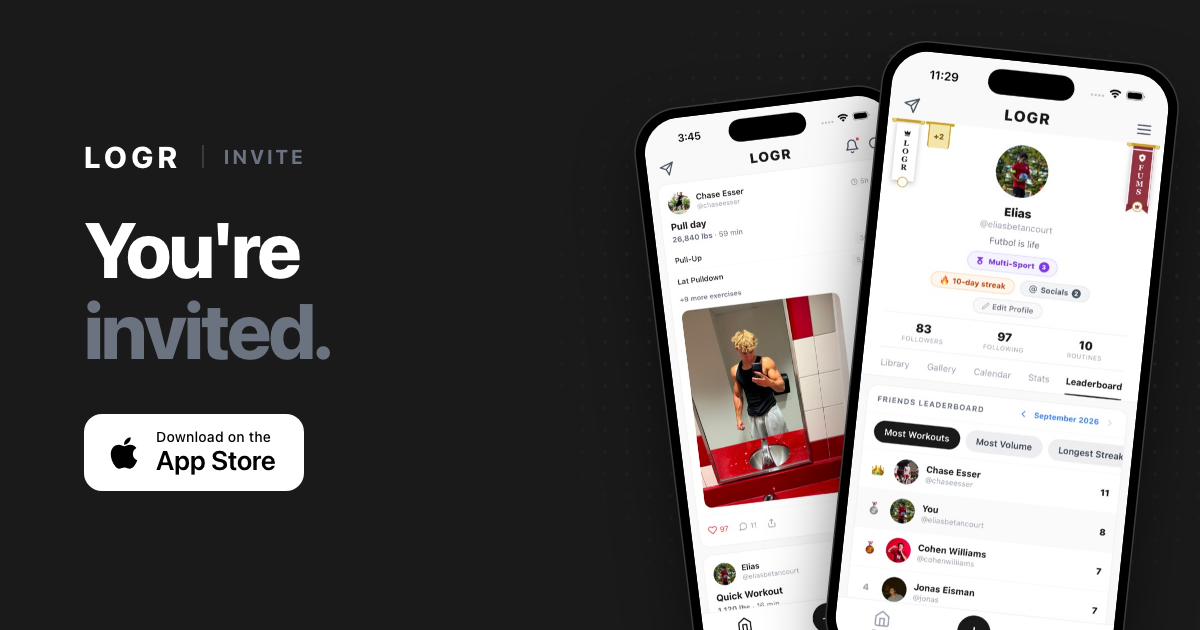
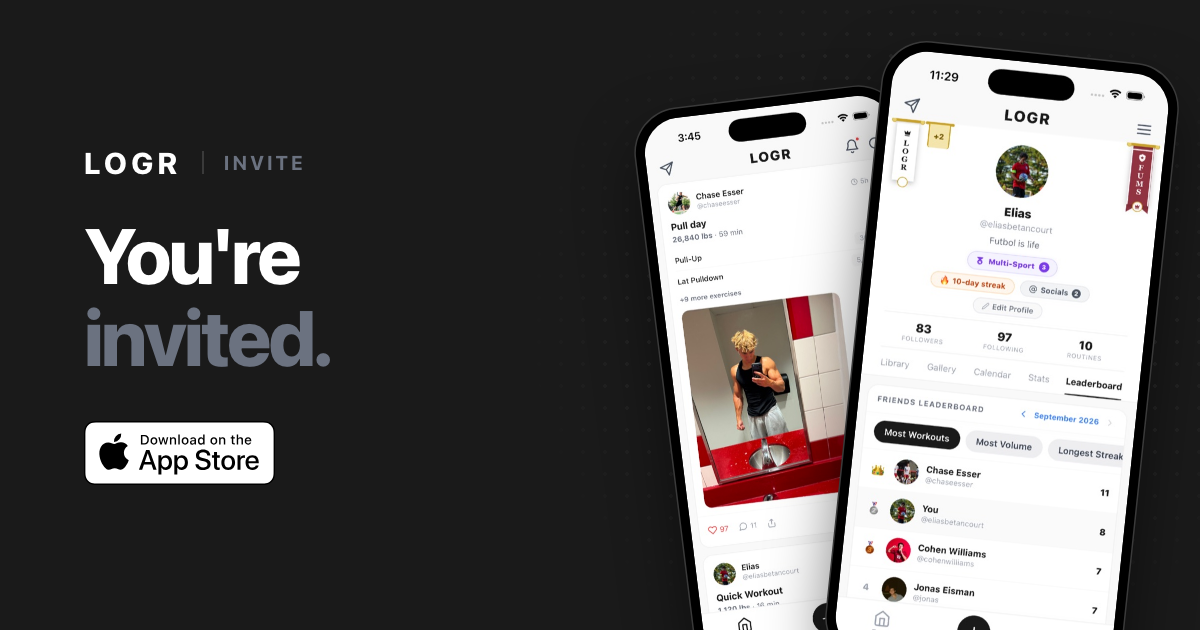
The App Store badge is Apple's own artwork
Every page, the pages behind a shared link and the link previews drew the
"Download on the App Store" badge in markup: a redrawn Apple logo and typed
words, with "Download on the" dropped from the phone header. Apple's badge
rules forbid recreating or altering it, so each now shows Apple's own SVG
from its marketing tools (app-store-badge.svg; the white one on the dark
preview cards), never below Apple's 40px minimum and with no hover or press
effect. The previews are re-rendered.

diff --git a/style.css b/style.css
@@ -173,44 +173,27 @@ img { max-width: 100%; display: block; }
 .button.small { padding: 11px 18px; font-size: 13px; }
 
 /* ── App Store badge ──────────────────────────────────────────────────────
-   The classic black "Download on the App Store" badge, built from real markup
-   instead of an image so it stays crisp and themeable without breaking the
-   no-JS, self-hosted CSP. Two sizes: default (hero) and .small (header). */
+   Apple's own "Download on the App Store" artwork (/app-store-badge.svg, from
+   Apple's marketing tools, tools.applemediaservices.com), never redrawn in
+   markup: Apple's badge rules forbid recreating, recoloring, cropping or
+   animating it, so the link around it has no hover or press effect, and no
+   size drops below Apple's 40px minimum. Clear space of a quarter of its
+   height comes from the layouts around it. Two sizes: default (hero) and
+   .small (header). */
 
 .app-badge {
-  display: inline-flex;
-  align-items: center;
-  gap: 10px;
-  padding: 11px 18px 11px 14px;
-  background: #000000;
-  border-radius: var(--radius-btn);
-  transition: transform 0.15s var(--ease), opacity 0.15s ease;
-}
-
-.app-badge:hover { opacity: 0.88; }
-.app-badge:active { transform: scale(0.97); }
-
-.app-badge-icon {
-  width: 26px;
-  height: 26px;
+  display: inline-block;
   flex-shrink: 0;
-  fill: #ffffff;
+  line-height: 0;
 }
 
-.app-badge-text {
-  display: flex;
-  flex-direction: column;
-  line-height: 1.15;
-  color: #ffffff;
+.app-badge-art {
+  display: block;
+  width: auto;
+  height: 54px;
 }
 
-.app-badge-eyebrow { font-size: 10px; font-weight: 500; letter-spacing: 0.02em; }
-.app-badge-store { margin-top: 1px; font-size: 19px; font-weight: 600; letter-spacing: -0.01em; }
-
-.app-badge.small { padding: 7px 14px 7px 10px; gap: 8px; border-radius: 10px; }
-.app-badge.small .app-badge-icon { width: 18px; height: 18px; }
-.app-badge.small .app-badge-eyebrow { font-size: 8px; }
-.app-badge.small .app-badge-store { font-size: 14px; }
+.app-badge.small .app-badge-art { height: 40px; }
 
 .text-link {
   font-size: 14px;
@@ -1179,16 +1162,12 @@ details[open] > summary .plus::before { transform: rotate(45deg); }
 
 /* The phone. */
 @media (max-width: 760px) {
-  /* One row: the logo and a compact App Store button. The section links are
+  /* One row: the logo and the App Store badge. The section links are
      in the footer, one scroll away, and a second row of grey links under the
      logo cost an eighth of the screen on every page. */
   .site-header { grid-template-columns: 1fr auto; }
   .site-nav { display: none; }
   .logo { font-size: 20px; }
-  .header-cta.app-badge { padding: 8px 13px 8px 11px; gap: 6px; border-radius: 11px; }
-  .header-cta .app-badge-eyebrow { display: none; }
-  .header-cta .app-badge-store { margin-top: 0; font-size: 14px; }
-  .header-cta .app-badge-icon { width: 15px; height: 15px; }
   .header-cta.button { padding: 10px 14px; font-size: 13px; }
 
   .hero { padding: 34px var(--gutter) 44px; }

diff --git a/index.html b/index.html
@@ -39,14 +39,7 @@
       <a href="/support">Support</a>
     </nav>
     <a class="app-badge small header-cta" href="https://apps.apple.com/app/id6795712216" aria-label="Download LOGR on the App Store">
-      <svg class="app-badge-icon" viewBox="0 0 384 512" aria-hidden="true" focusable="false">
-        <path
-          d="M318.7 268.7c-.2-36.7 16.4-64.4 50-84.8-18.8-26.9-47.2-41.7-84.7-44.6-35.5-2.8-74.3 20.7-88.5 20.7-15 0-49.4-19.7-76-19.7C63.3 141.2 4 184.8 4 273.5q0 39.3 14.4 81.2c12.8 36.7 59 126.7 107.2 125.2 25.2-.6 43-17.9 75.8-17.9 31.8 0 48.3 17.9 76.4 17.9 48.6-.7 90.4-82.5 102.6-119.3-65.2-30.7-61.7-90-61.7-91.9zm-56.6-164.2c27.3-32.4 24.8-61.9 24-72.5-24.1 1.4-52 16.4-67.9 34.9-17.5 19.8-27.8 44.3-25.6 71.9 26.1 2 49.9-11.4 69.5-34.3z" />
-      </svg>
-      <span class="app-badge-text">
-        <span class="app-badge-eyebrow">Download on the</span>
-        <span class="app-badge-store">App Store</span>
-      </span>
+      <img class="app-badge-art" src="/app-store-badge.svg" alt="" width="120" height="40">
     </a>
   </header>
 
@@ -62,14 +55,7 @@
           people you train with.</p>
         <div class="hero-actions">
           <a class="app-badge" href="https://apps.apple.com/app/id6795712216" aria-label="Download LOGR on the App Store">
-            <svg class="app-badge-icon" viewBox="0 0 384 512" aria-hidden="true" focusable="false">
-              <path
-                d="M318.7 268.7c-.2-36.7 16.4-64.4 50-84.8-18.8-26.9-47.2-41.7-84.7-44.6-35.5-2.8-74.3 20.7-88.5 20.7-15 0-49.4-19.7-76-19.7C63.3 141.2 4 184.8 4 273.5q0 39.3 14.4 81.2c12.8 36.7 59 126.7 107.2 125.2 25.2-.6 43-17.9 75.8-17.9 31.8 0 48.3 17.9 76.4 17.9 48.6-.7 90.4-82.5 102.6-119.3-65.2-30.7-61.7-90-61.7-91.9zm-56.6-164.2c27.3-32.4 24.8-61.9 24-72.5-24.1 1.4-52 16.4-67.9 34.9-17.5 19.8-27.8 44.3-25.6 71.9 26.1 2 49.9-11.4 69.5-34.3z" />
-            </svg>
-            <span class="app-badge-text">
-              <span class="app-badge-eyebrow">Download on the</span>
-              <span class="app-badge-store">App Store</span>
-            </span>
+            <img class="app-badge-art" src="/app-store-badge.svg" alt="" width="120" height="40">
           </a>
           <a class="text-link" href="#who">See who it's for &darr;</a>
         </div>

diff --git a/netlify/edge-functions/app-link.js b/netlify/edge-functions/app-link.js
@@ -220,9 +220,6 @@ function esc(value) {
     .replace(/'/g, '&#39;');
 }
 
-const APPLE_ICON =
-  'M318.7 268.7c-.2-36.7 16.4-64.4 50-84.8-18.8-26.9-47.2-41.7-84.7-44.6-35.5-2.8-74.3 20.7-88.5 20.7-15 0-49.4-19.7-76-19.7C63.3 141.2 4 184.8 4 273.5q0 39.3 14.4 81.2c12.8 36.7 59 126.7 107.2 125.2 25.2-.6 43-17.9 75.8-17.9 31.8 0 48.3 17.9 76.4 17.9 48.6-.7 90.4-82.5 102.6-119.3-65.2-30.7-61.7-90-61.7-91.9zm-56.6-164.2c27.3-32.4 24.8-61.9 24-72.5-24.1 1.4-52 16.4-67.9 34.9-17.5 19.8-27.8 44.3-25.6 71.9 26.1 2 49.9-11.4 69.5-34.3z';
-
 // Feather line icons, the set the app itself draws with. A link only tells us
 // what KIND of thing was shared, so when there is no name to make an initial
 // from, the mark says that much and no more.
@@ -255,15 +252,10 @@ function stats(tiles) {
     .join('')}</div>`;
 }
 
+// Apple's own badge artwork, never redrawn (style.css, "App Store badge").
 function badge(small) {
   return `<a class="app-badge${small ? ' small header-cta' : ''}" href="${APP_STORE}" aria-label="Download LOGR on the App Store">
-    <svg class="app-badge-icon" viewBox="0 0 384 512" aria-hidden="true" focusable="false">
-      <path d="${APPLE_ICON}" />
-    </svg>
-    <span class="app-badge-text">
-      <span class="app-badge-eyebrow">Download on the</span>
-      <span class="app-badge-store">App Store</span>
-    </span>
+    <img class="app-badge-art" src="/app-store-badge.svg" alt="" width="120" height="40">
   </a>`;
 }
 

diff --git a/og-source/card.css b/og-source/card.css
@@ -13,8 +13,6 @@
   --rule: #e5e7eb;
   --dots: rgba(26, 26, 26, 0.14);
   --frame: #1a1a1a;
-  --badge: #000000;
-  --badge-text: #ffffff;
 }
 body.dark {
   --bg: #1a1a1a;
@@ -23,8 +21,6 @@ body.dark {
   --rule: #3a3a3a;
   --dots: rgba(255, 255, 255, 0.10);
   --frame: #000000;
-  --badge: #ffffff;
-  --badge-text: #000000;
 }
 * { box-sizing: border-box; margin: 0; padding: 0; }
 html, body { width: 1200px; height: 630px; overflow: hidden; }
@@ -73,21 +69,14 @@ h1 {
 /* A two-line headline has the room to be bigger. */
 h1.short { font-size: 78px; }
 h1 em { font-style: normal; color: var(--muted); }
+/* Apple's own badge artwork, the white one on a dark card, never redrawn. */
 .badge {
   margin-top: 44px;
   align-self: flex-start;
-  display: inline-flex;
-  align-items: center;
-  gap: 14px;
-  padding: 15px 28px 15px 22px;
-  background: var(--badge);
-  border-radius: 18px;
-  color: var(--badge-text);
+  display: block;
+  height: 64px;
+  width: auto;
 }
-.badge svg { width: 36px; height: 36px; fill: currentColor; }
-.badge-text { display: flex; flex-direction: column; line-height: 1.1; }
-.badge-eyebrow { font-size: 14px; font-weight: 500; letter-spacing: 0.02em; }
-.badge-store { margin-top: 2px; font-size: 27px; font-weight: 600; letter-spacing: -0.01em; }
 
 /* The site hero's two phones and dot grid, running off the bottom edge. */
 .phones { position: absolute; left: 628px; top: 0; width: 560px; height: 630px; }

diff --git a/og-source/profile.html b/og-source/profile.html
@@ -9,13 +9,7 @@
   <div class="copy">
     <div class="wordmark">LOGR<span class="kind">PROFILE</span></div>
     <h1 class="short">Follow their<br><em>training.</em></h1>
-    <div class="badge">
-      <svg viewBox="0 0 384 512" aria-hidden="true"><path d="M318.7 268.7c-.2-36.7 16.4-64.4 50-84.8-18.8-26.9-47.2-41.7-84.7-44.6-35.5-2.8-74.3 20.7-88.5 20.7-15 0-49.4-19.7-76-19.7C63.3 141.2 4 184.8 4 273.5q0 39.3 14.4 81.2c12.8 36.7 59 126.7 107.2 125.2 25.2-.6 43-17.9 75.8-17.9 31.8 0 48.3 17.9 76.4 17.9 48.6-.7 90.4-82.5 102.6-119.3-65.2-30.7-61.7-90-61.7-91.9zm-56.6-164.2c27.3-32.4 24.8-61.9 24-72.5-24.1 1.4-52 16.4-67.9 34.9-17.5 19.8-27.8 44.3-25.6 71.9 26.1 2 49.9-11.4 69.5-34.3z"/></svg>
-      <span class="badge-text">
-        <span class="badge-eyebrow">Download on the</span>
-        <span class="badge-store">App Store</span>
-      </span>
-    </div>
+    <img class="badge" src="app-store-badge-white.svg" alt="">
   </div>
   <div class="phones">
     <div class="shot back"><img src="../screens/pair-1a-library.jpg" alt=""></div>

diff --git a/og-source/routine.html b/og-source/routine.html
@@ -9,13 +9,7 @@
   <div class="copy">
     <div class="wordmark">LOGR<span class="kind">ROUTINE</span></div>
     <h1>Save it.<br>Start it.<br><em>Log it.</em></h1>
-    <div class="badge">
-      <svg viewBox="0 0 384 512" aria-hidden="true"><path d="M318.7 268.7c-.2-36.7 16.4-64.4 50-84.8-18.8-26.9-47.2-41.7-84.7-44.6-35.5-2.8-74.3 20.7-88.5 20.7-15 0-49.4-19.7-76-19.7C63.3 141.2 4 184.8 4 273.5q0 39.3 14.4 81.2c12.8 36.7 59 126.7 107.2 125.2 25.2-.6 43-17.9 75.8-17.9 31.8 0 48.3 17.9 76.4 17.9 48.6-.7 90.4-82.5 102.6-119.3-65.2-30.7-61.7-90-61.7-91.9zm-56.6-164.2c27.3-32.4 24.8-61.9 24-72.5-24.1 1.4-52 16.4-67.9 34.9-17.5 19.8-27.8 44.3-25.6 71.9 26.1 2 49.9-11.4 69.5-34.3z"/></svg>
-      <span class="badge-text">
-        <span class="badge-eyebrow">Download on the</span>
-        <span class="badge-store">App Store</span>
-      </span>
-    </div>
+    <img class="badge" src="app-store-badge-white.svg" alt="">
   </div>
   <div class="phones">
     <div class="shot back"><img src="../screens/pair-2a-live-workout.jpg" alt=""></div>

diff --git a/og-source/post.html b/og-source/post.html
@@ -9,13 +9,7 @@
   <div class="copy">
     <div class="wordmark">LOGR<span class="kind">WORKOUT</span></div>
     <h1 class="short">See the whole<br><em>session.</em></h1>
-    <div class="badge">
-      <svg viewBox="0 0 384 512" aria-hidden="true"><path d="M318.7 268.7c-.2-36.7 16.4-64.4 50-84.8-18.8-26.9-47.2-41.7-84.7-44.6-35.5-2.8-74.3 20.7-88.5 20.7-15 0-49.4-19.7-76-19.7C63.3 141.2 4 184.8 4 273.5q0 39.3 14.4 81.2c12.8 36.7 59 126.7 107.2 125.2 25.2-.6 43-17.9 75.8-17.9 31.8 0 48.3 17.9 76.4 17.9 48.6-.7 90.4-82.5 102.6-119.3-65.2-30.7-61.7-90-61.7-91.9zm-56.6-164.2c27.3-32.4 24.8-61.9 24-72.5-24.1 1.4-52 16.4-67.9 34.9-17.5 19.8-27.8 44.3-25.6 71.9 26.1 2 49.9-11.4 69.5-34.3z"/></svg>
-      <span class="badge-text">
-        <span class="badge-eyebrow">Download on the</span>
-        <span class="badge-store">App Store</span>
-      </span>
-    </div>
+    <img class="badge" src="app-store-badge-white.svg" alt="">
   </div>
   <div class="phones">
     <div class="shot back"><img src="../screens/pair-3a-feed.jpg" alt=""></div>

diff --git a/support.html b/support.html
@@ -33,13 +33,7 @@
     <a href="/support" aria-current="page">Support</a>
   </nav>
   <a class="app-badge small header-cta" href="https://apps.apple.com/app/id6795712216" aria-label="Download LOGR on the App Store">
-    <svg class="app-badge-icon" viewBox="0 0 384 512" aria-hidden="true" focusable="false">
-      <path d="M318.7 268.7c-.2-36.7 16.4-64.4 50-84.8-18.8-26.9-47.2-41.7-84.7-44.6-35.5-2.8-74.3 20.7-88.5 20.7-15 0-49.4-19.7-76-19.7C63.3 141.2 4 184.8 4 273.5q0 39.3 14.4 81.2c12.8 36.7 59 126.7 107.2 125.2 25.2-.6 43-17.9 75.8-17.9 31.8 0 48.3 17.9 76.4 17.9 48.6-.7 90.4-82.5 102.6-119.3-65.2-30.7-61.7-90-61.7-91.9zm-56.6-164.2c27.3-32.4 24.8-61.9 24-72.5-24.1 1.4-52 16.4-67.9 34.9-17.5 19.8-27.8 44.3-25.6 71.9 26.1 2 49.9-11.4 69.5-34.3z" />
-    </svg>
-    <span class="app-badge-text">
-      <span class="app-badge-eyebrow">Download on the</span>
-      <span class="app-badge-store">App Store</span>
-    </span>
+    <img class="app-badge-art" src="/app-store-badge.svg" alt="" width="120" height="40">
   </a>
 </header>
 

diff --git a/og-source/join.html b/og-source/join.html
@@ -9,13 +9,7 @@
   <div class="copy">
     <div class="wordmark">LOGR<span class="kind">INVITE</span></div>
     <h1 class="short">You're<br><em>invited.</em></h1>
-    <div class="badge">
-      <svg viewBox="0 0 384 512" aria-hidden="true"><path d="M318.7 268.7c-.2-36.7 16.4-64.4 50-84.8-18.8-26.9-47.2-41.7-84.7-44.6-35.5-2.8-74.3 20.7-88.5 20.7-15 0-49.4-19.7-76-19.7C63.3 141.2 4 184.8 4 273.5q0 39.3 14.4 81.2c12.8 36.7 59 126.7 107.2 125.2 25.2-.6 43-17.9 75.8-17.9 31.8 0 48.3 17.9 76.4 17.9 48.6-.7 90.4-82.5 102.6-119.3-65.2-30.7-61.7-90-61.7-91.9zm-56.6-164.2c27.3-32.4 24.8-61.9 24-72.5-24.1 1.4-52 16.4-67.9 34.9-17.5 19.8-27.8 44.3-25.6 71.9 26.1 2 49.9-11.4 69.5-34.3z"/></svg>
-      <span class="badge-text">
-        <span class="badge-eyebrow">Download on the</span>
-        <span class="badge-store">App Store</span>
-      </span>
-    </div>
+    <img class="badge" src="app-store-badge-white.svg" alt="">
   </div>
   <div class="phones">
     <div class="shot back"><img src="../screens/pair-3a-feed.jpg" alt=""></div>

diff --git a/og-source/site.html b/og-source/site.html
@@ -9,13 +9,7 @@
   <div class="copy">
     <div class="wordmark">LOGR</div>
     <h1>Create routines.<br>Log workouts.<br>Share with <em>friends.</em></h1>
-    <div class="badge">
-      <svg viewBox="0 0 384 512" aria-hidden="true"><path d="M318.7 268.7c-.2-36.7 16.4-64.4 50-84.8-18.8-26.9-47.2-41.7-84.7-44.6-35.5-2.8-74.3 20.7-88.5 20.7-15 0-49.4-19.7-76-19.7C63.3 141.2 4 184.8 4 273.5q0 39.3 14.4 81.2c12.8 36.7 59 126.7 107.2 125.2 25.2-.6 43-17.9 75.8-17.9 31.8 0 48.3 17.9 76.4 17.9 48.6-.7 90.4-82.5 102.6-119.3-65.2-30.7-61.7-90-61.7-91.9zm-56.6-164.2c27.3-32.4 24.8-61.9 24-72.5-24.1 1.4-52 16.4-67.9 34.9-17.5 19.8-27.8 44.3-25.6 71.9 26.1 2 49.9-11.4 69.5-34.3z"/></svg>
-      <span class="badge-text">
-        <span class="badge-eyebrow">Download on the</span>
-        <span class="badge-store">App Store</span>
-      </span>
-    </div>
+    <img class="badge" src="app-store-badge-white.svg" alt="">
   </div>
   <div class="phones">
     <div class="shot back"><img src="../screens/pair-2a-live-workout.jpg" alt=""></div>

diff --git a/404.html b/404.html
@@ -31,13 +31,7 @@
     <a href="/support">Support</a>
   </nav>
   <a class="app-badge small header-cta" href="https://apps.apple.com/app/id6795712216" aria-label="Download LOGR on the App Store">
-    <svg class="app-badge-icon" viewBox="0 0 384 512" aria-hidden="true" focusable="false">
-      <path d="M318.7 268.7c-.2-36.7 16.4-64.4 50-84.8-18.8-26.9-47.2-41.7-84.7-44.6-35.5-2.8-74.3 20.7-88.5 20.7-15 0-49.4-19.7-76-19.7C63.3 141.2 4 184.8 4 273.5q0 39.3 14.4 81.2c12.8 36.7 59 126.7 107.2 125.2 25.2-.6 43-17.9 75.8-17.9 31.8 0 48.3 17.9 76.4 17.9 48.6-.7 90.4-82.5 102.6-119.3-65.2-30.7-61.7-90-61.7-91.9zm-56.6-164.2c27.3-32.4 24.8-61.9 24-72.5-24.1 1.4-52 16.4-67.9 34.9-17.5 19.8-27.8 44.3-25.6 71.9 26.1 2 49.9-11.4 69.5-34.3z" />
-    </svg>
-    <span class="app-badge-text">
-      <span class="app-badge-eyebrow">Download on the</span>
-      <span class="app-badge-store">App Store</span>
-    </span>
+    <img class="app-badge-art" src="/app-store-badge.svg" alt="" width="120" height="40">
   </a>
 </header>
 

diff --git a/account-deletion.html b/account-deletion.html
@@ -33,13 +33,7 @@
     <a href="/support">Support</a>
   </nav>
   <a class="app-badge small header-cta" href="https://apps.apple.com/app/id6795712216" aria-label="Download LOGR on the App Store">
-    <svg class="app-badge-icon" viewBox="0 0 384 512" aria-hidden="true" focusable="false">
-      <path d="M318.7 268.7c-.2-36.7 16.4-64.4 50-84.8-18.8-26.9-47.2-41.7-84.7-44.6-35.5-2.8-74.3 20.7-88.5 20.7-15 0-49.4-19.7-76-19.7C63.3 141.2 4 184.8 4 273.5q0 39.3 14.4 81.2c12.8 36.7 59 126.7 107.2 125.2 25.2-.6 43-17.9 75.8-17.9 31.8 0 48.3 17.9 76.4 17.9 48.6-.7 90.4-82.5 102.6-119.3-65.2-30.7-61.7-90-61.7-91.9zm-56.6-164.2c27.3-32.4 24.8-61.9 24-72.5-24.1 1.4-52 16.4-67.9 34.9-17.5 19.8-27.8 44.3-25.6 71.9 26.1 2 49.9-11.4 69.5-34.3z" />
-    </svg>
-    <span class="app-badge-text">
-      <span class="app-badge-eyebrow">Download on the</span>
-      <span class="app-badge-store">App Store</span>
-    </span>
+    <img class="app-badge-art" src="/app-store-badge.svg" alt="" width="120" height="40">
   </a>
 </header>
 
